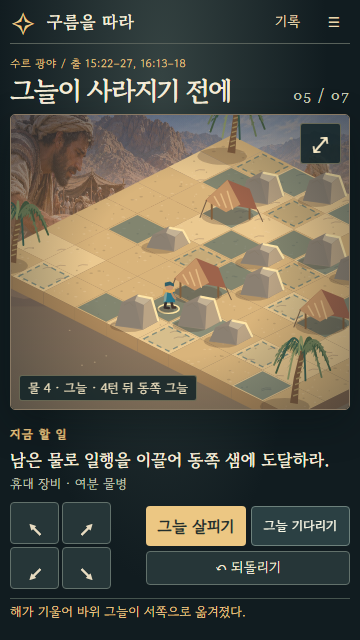
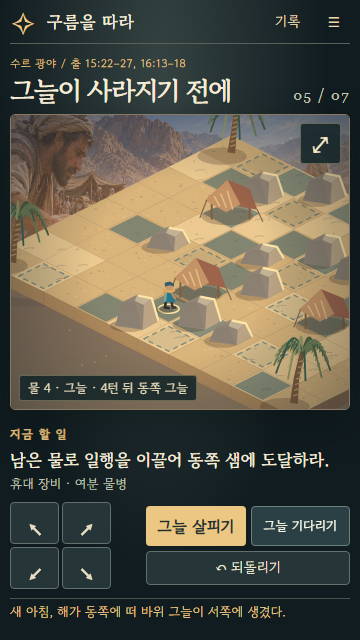
광야 동쪽 해 문구 수정 및 검사 출력 no errors 반영

Changed region(s): [[0.0306, 0.9375, 0.7944, 0.9688]]

diff --git a/tools/test/full/exodus-desert-shade.js b/tools/test/full/exodus-desert-shade.js
@@ -163,6 +163,7 @@ function isShaded(x, y, turn) {
     const afterEnv = await envText();
     assert.match(afterEnv, /그늘/, `전환 직후 그늘 표시 확인: ${afterEnv}`);
     assert.match(afterEnv, /4턴 뒤 동쪽 그늘/, `전환 직후 다음 방향 안내 확인: ${afterEnv}`);
+    assert.match(await toastText(), /새 아침, 해가 동쪽에 떠 바위 그늘이 서쪽에 생겼다\./);
     await p.screenshot({ path: path.join(HANDOFF_SHOT_DIR, '광야_태양전환_후.png') });
     await p.screenshot({ path: path.join(outDir, '광야_태양전환_후.png') });
 
@@ -300,7 +301,7 @@ function isShaded(x, y, turn) {
     assert.deepEqual(errors, []);
 
     fs.writeFileSync(path.join(outDir, 'results.json'), JSON.stringify(results, null, 2));
-    console.log('광야 움직이는 그늘 테스트 통과:', JSON.stringify(results));
+    console.log('광야 움직이는 그늘 테스트 통과:', JSON.stringify(results), '· no errors');
   } finally {
     await browser.close();
   }

diff --git a/web/expedition/road.js b/web/expedition/road.js
@@ -362,9 +362,11 @@
     const flipped = sunSide() !== prevSide;
     say(
       flipped
-        ? '해가 기울어 바위 그늘이 ' + (sunSide() === -1 ? '동쪽' : '서쪽') + '으로 옮겨졌다.'
+        ? sunSide() === -1
+          ? '해가 기울어 바위 그늘이 동쪽으로 옮겨졌다.'
+          : '새 아침, 해가 동쪽에 떠 바위 그늘이 서쪽에 생겼다.'
         : cellShade(s.x, s.y)
-          ? '그늘 아래서 해가 기울기를 기다렸다.'
+          ? '그늘 아래서 해가 움직이기를 기다렸다.'
           : '볕 아래서 한 턴을 기다렸다.'
     );
     return true;

diff --git a/docs/인계/광야_그늘_Antigravity.md b/docs/인계/광야_그늘_Antigravity.md
@@ -51,4 +51,11 @@ node tools/test/full/exodus-desert-shade.js dist/check/desert-shade dist/expedit
 ```
 
 - `exodus-road.js`: `출애굽기 직접 탐험 7/7 · 수레·되돌리기·장비·복원·도약 사진·열기·증언·후일담 · no errors` (통과)
-- `exodus-desert-shade.js`: 360×640 터치·키보드·모션 축소·무음 기준 전 항목 통과, 콘솔·페이지 오류 0건
+- `exodus-desert-shade.js`: 360×640 터치·키보드·모션 축소·무음 기준 전 항목 통과 (`· no errors`), 콘솔·페이지 오류 0건
+- `exodus-check.cjs desert-shade dist/expedition.html`: `desert-shade · 조작 통과`
+
+## 5. Claude 독립 검증(`44da9a2`) 반영 이력
+
+- `web/expedition/road.js` (`waitInPlace()`): 동쪽 해 전환 문구를 `새 아침, 해가 동쪽에 떠 바위 그늘이 서쪽에 생겼다.`로 수정하고, 그늘 대기 문구를 `그늘 아래서 해가 움직이기를 기다렸다.`로 정리했다.
+- `tools/test/full/exodus-desert-shade.js`: 수정된 전환 문구 검증과 마지막 출력 줄 `· no errors`를 추가했다.
+- `docs/인계/사진/출애굽기원정/광야_태양전환_후.png`: 수정 문구가 반영된 화면으로 다시 촬영해 확인했다.
